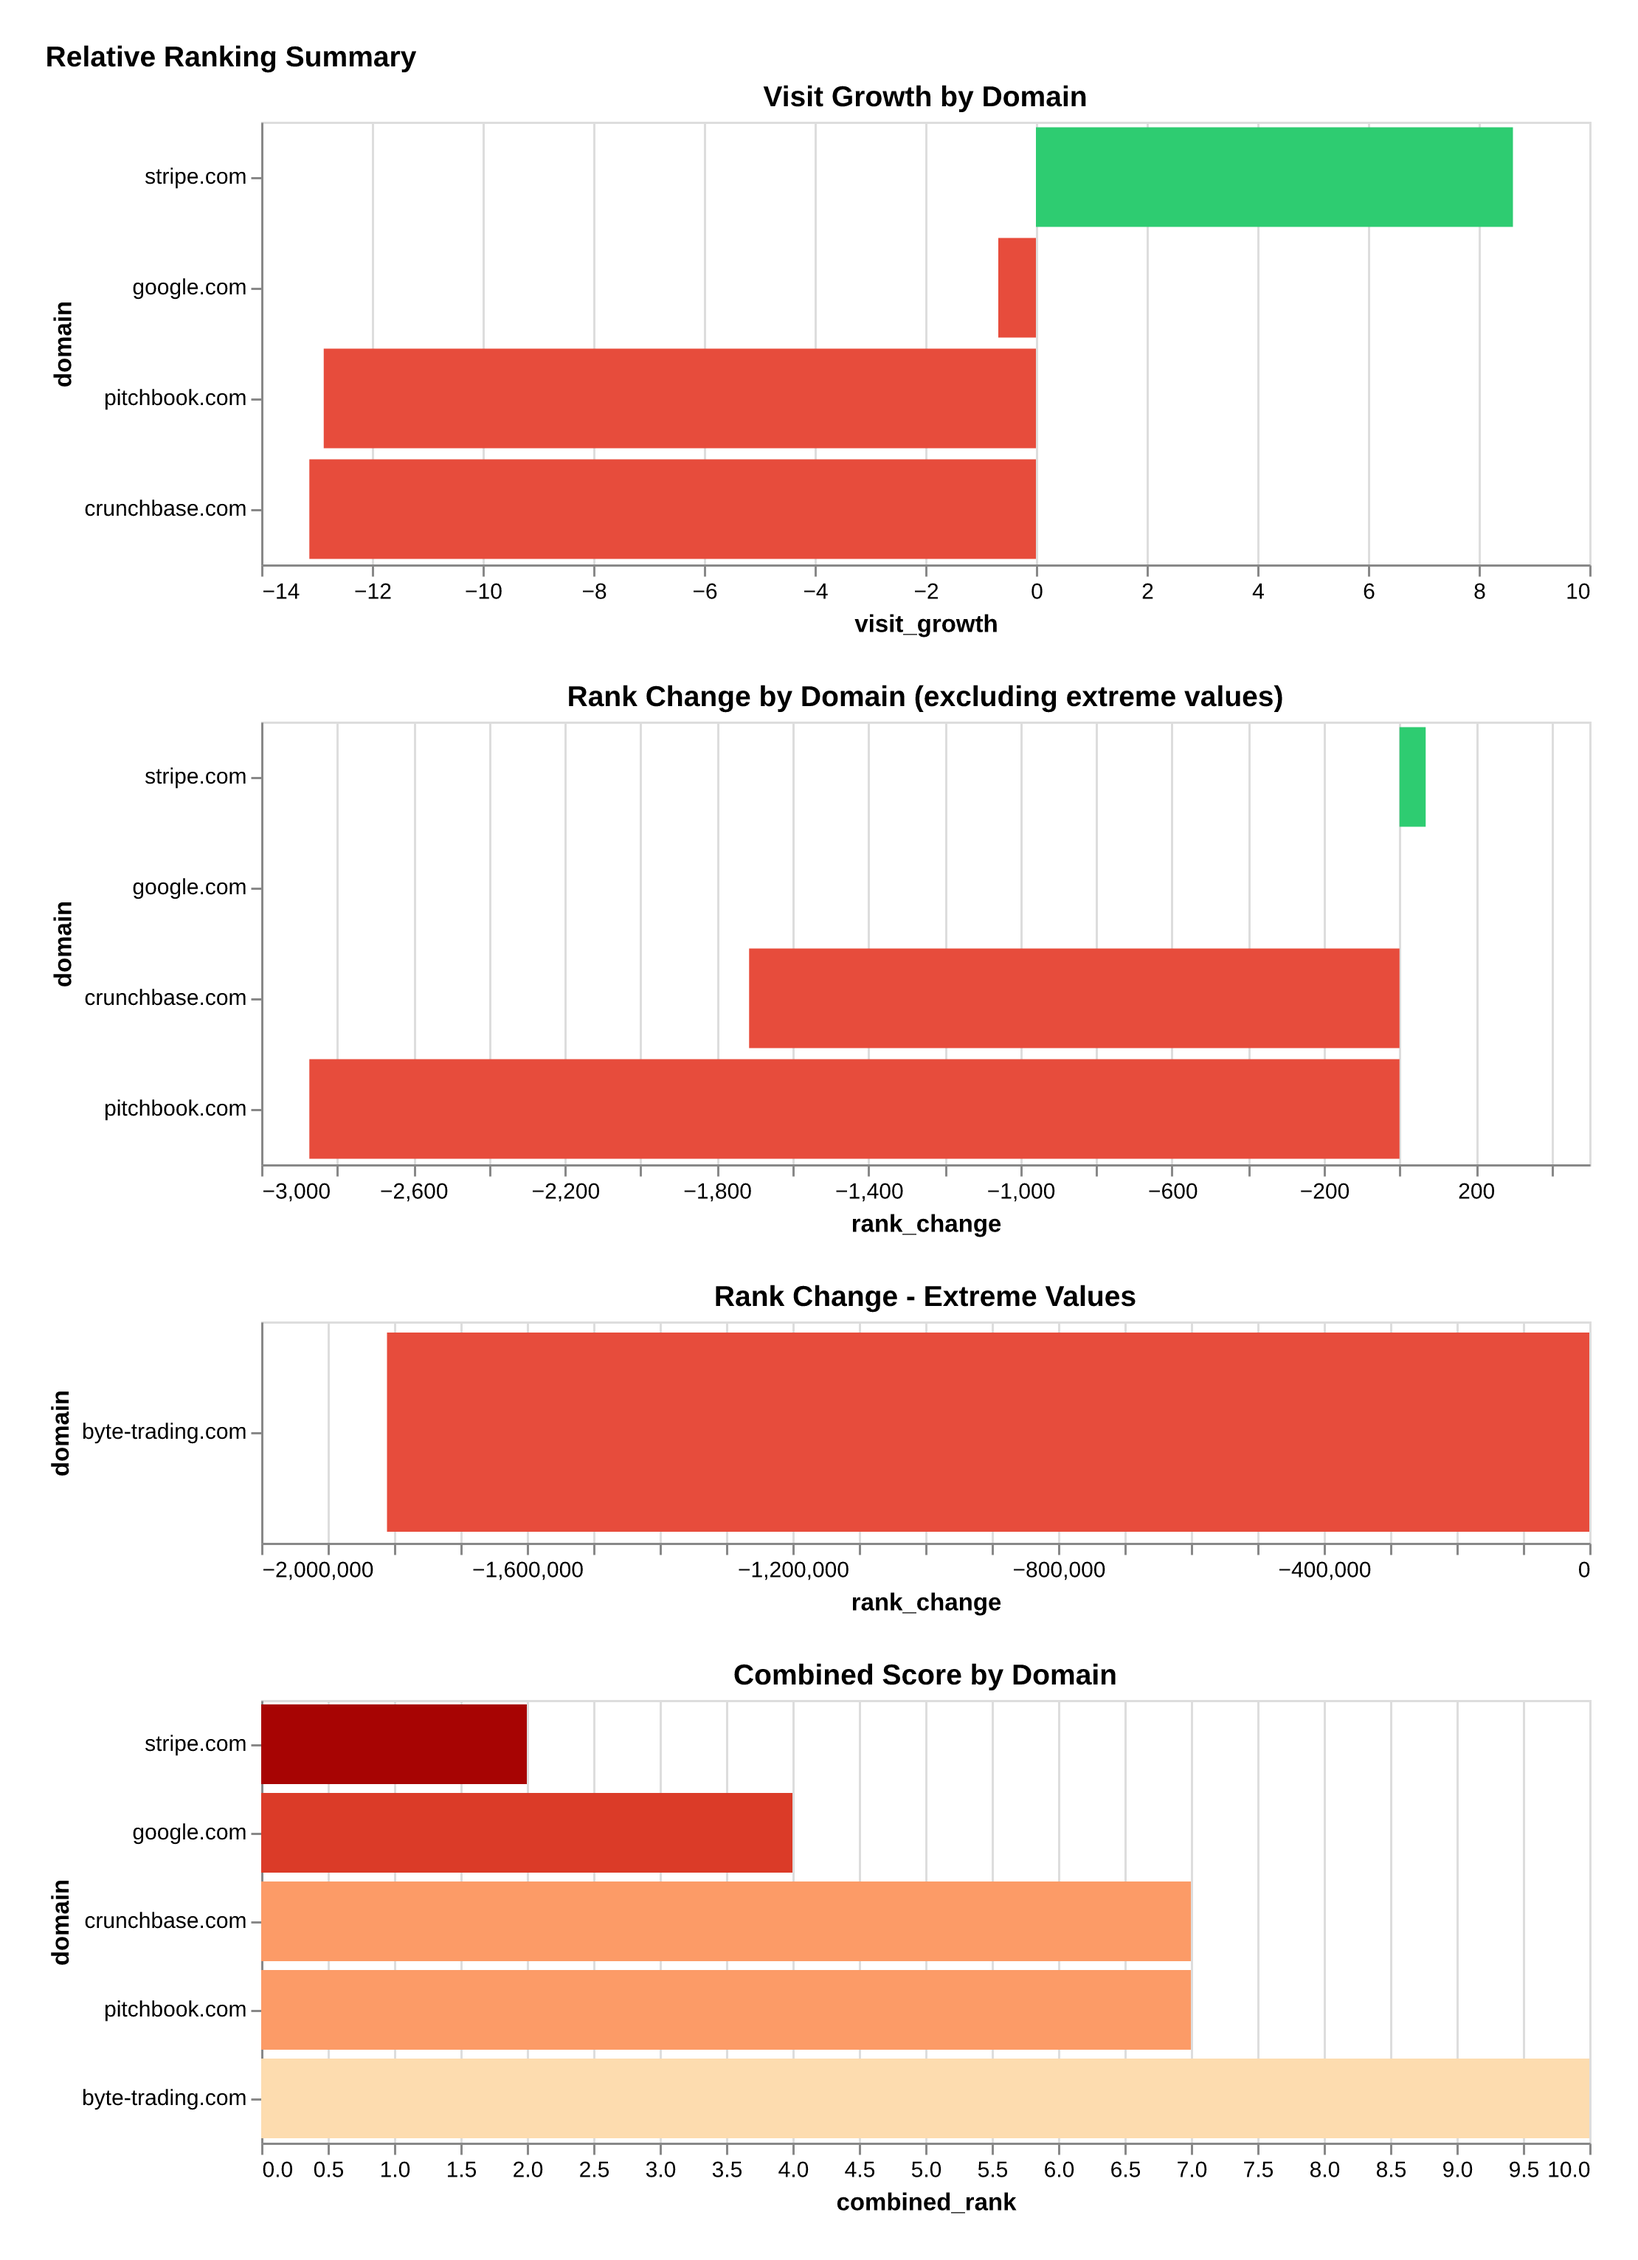
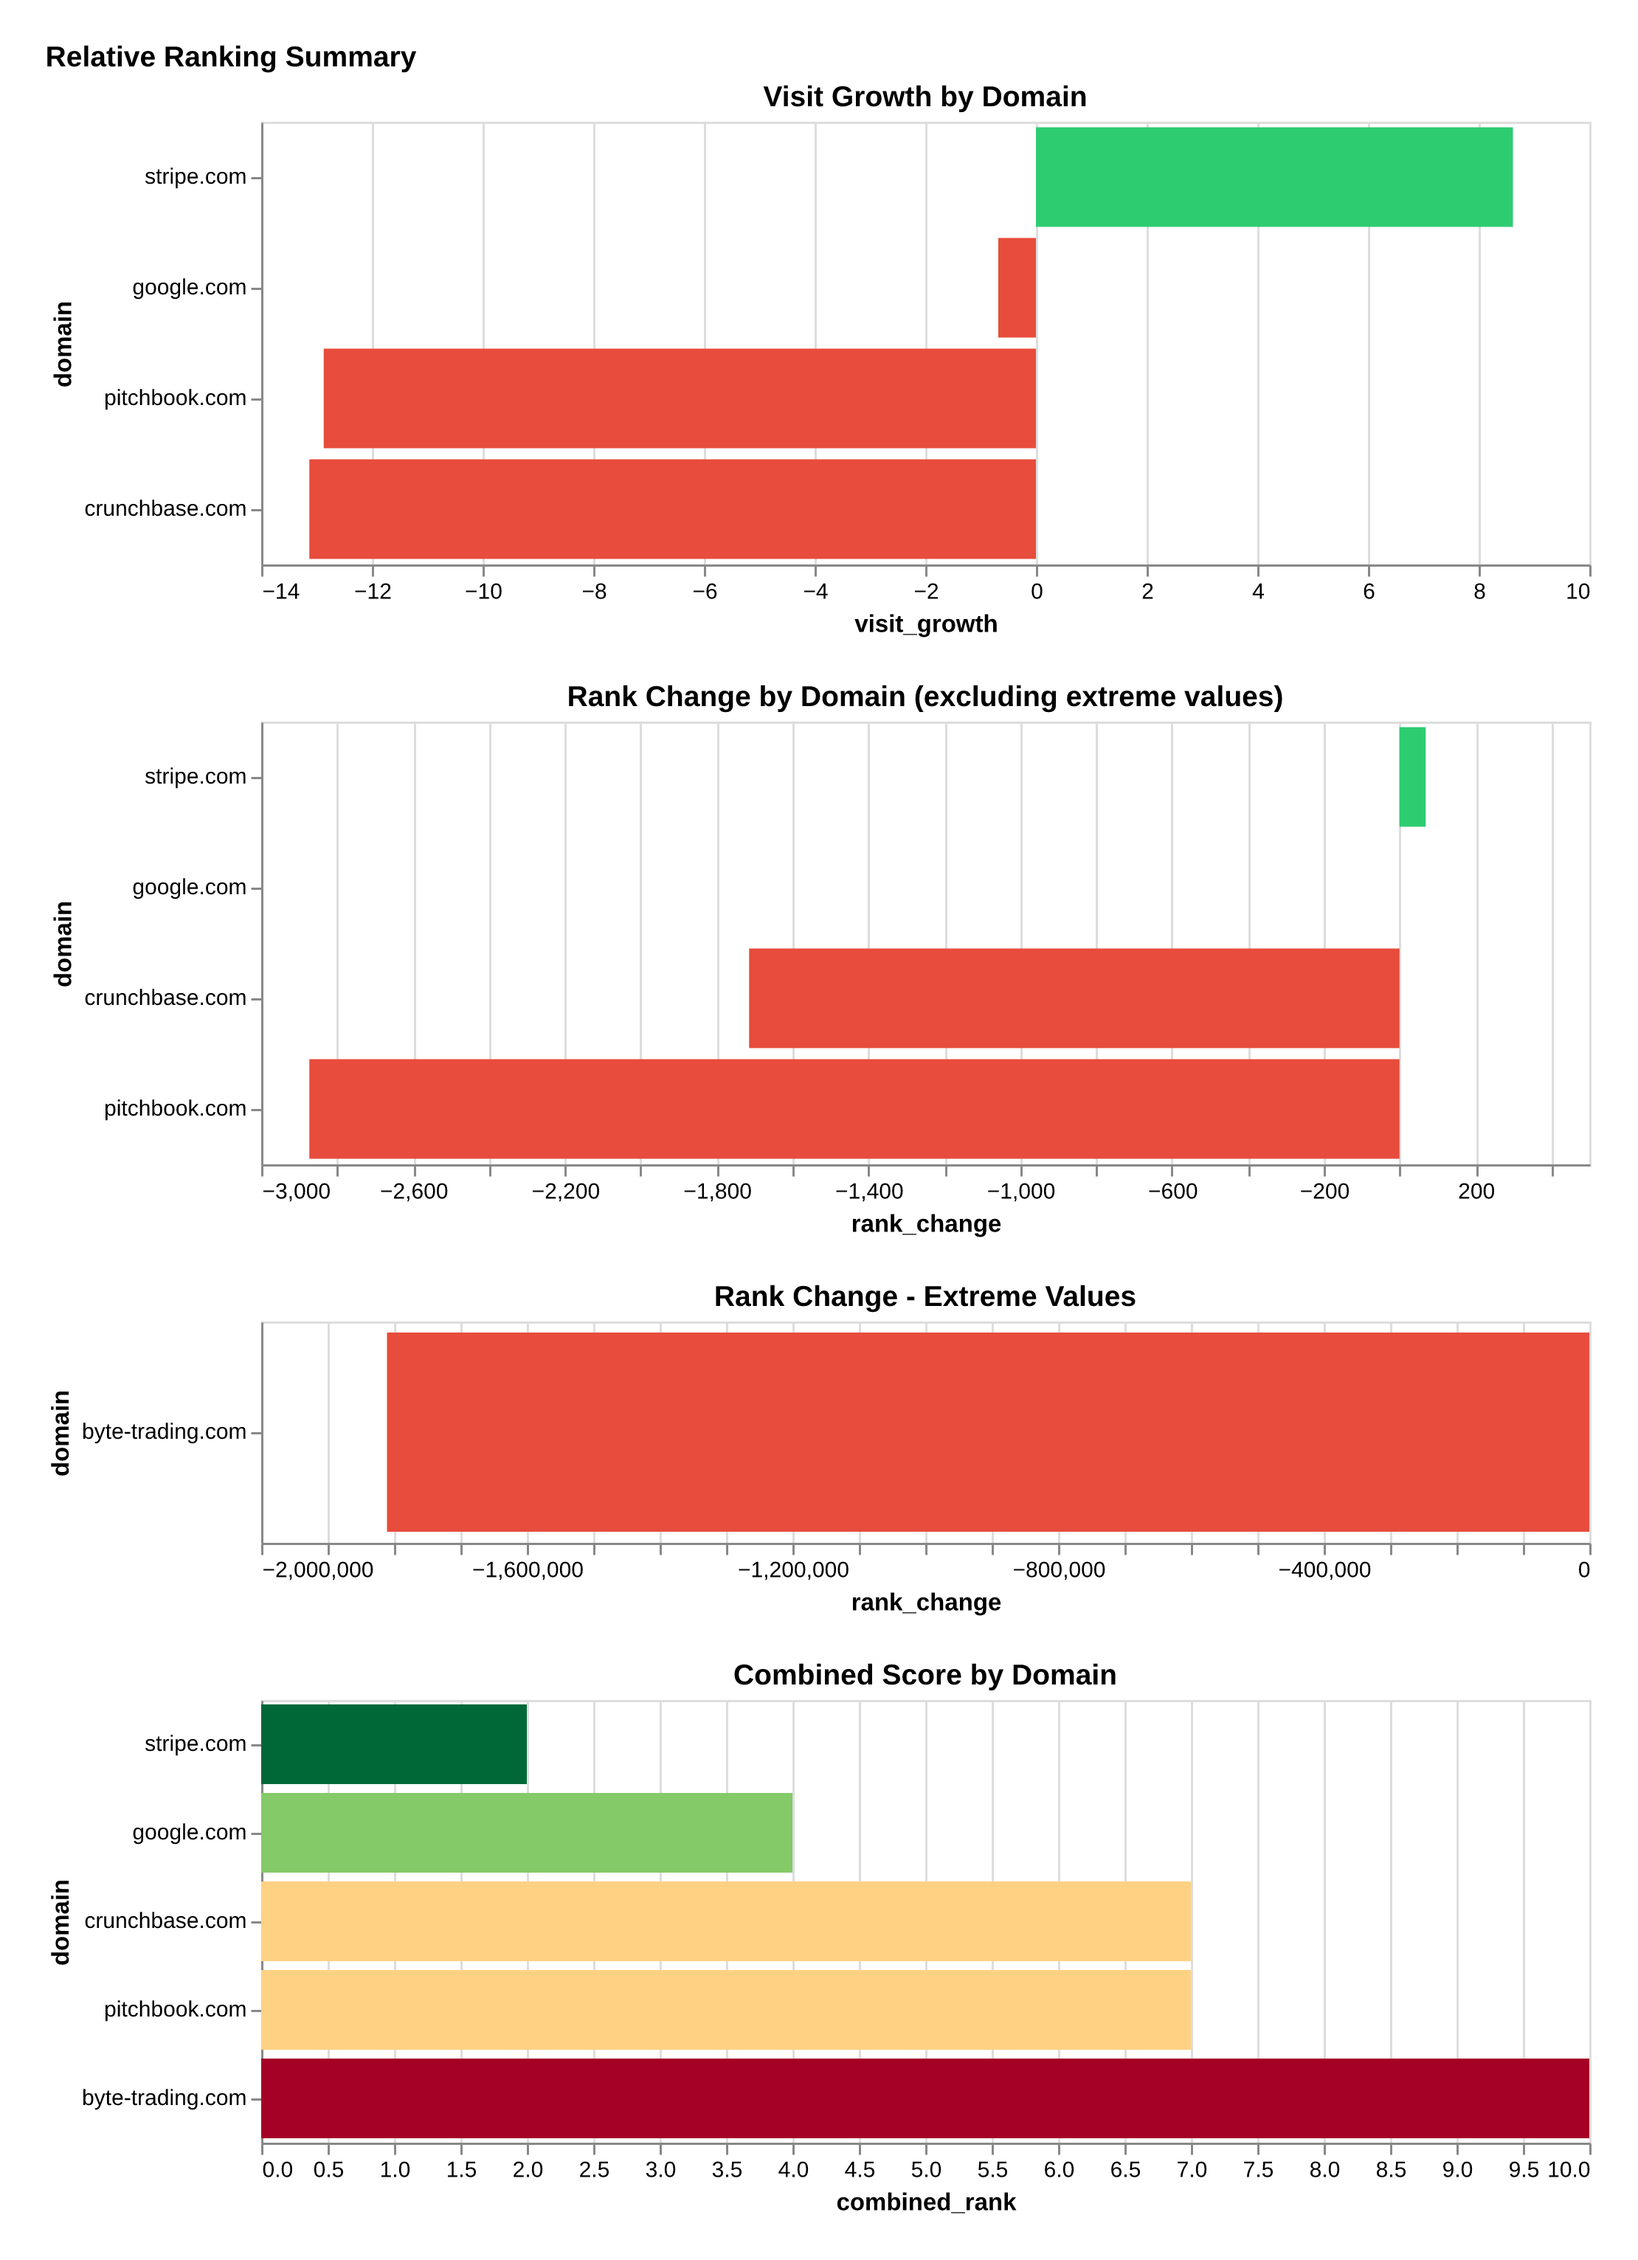
fix(viz): Fixed the relative_ranking combined score chart to accurately represent Positive and Negative scores where lower is better

Changed region(s): [[0.1554, 0.7444, 0.9946, 0.9615]]

diff --git a/src/visualization.py b/src/visualization.py
@@ -229,7 +229,7 @@ def plot_relative_ranking(conn: duckdb.DuckDBPyConnection, output_dir: Path) -> 
             y=alt.Y("domain:N", sort="x"),
             color=alt.Color(
                 "combined_rank:Q",
-                scale=alt.Scale(scheme="orangered", reverse=True),
+                scale=alt.Scale(scheme="redyellowgreen", reverse=True),
                 legend=None,
             ),
             tooltip=["domain", "combined_rank"],
